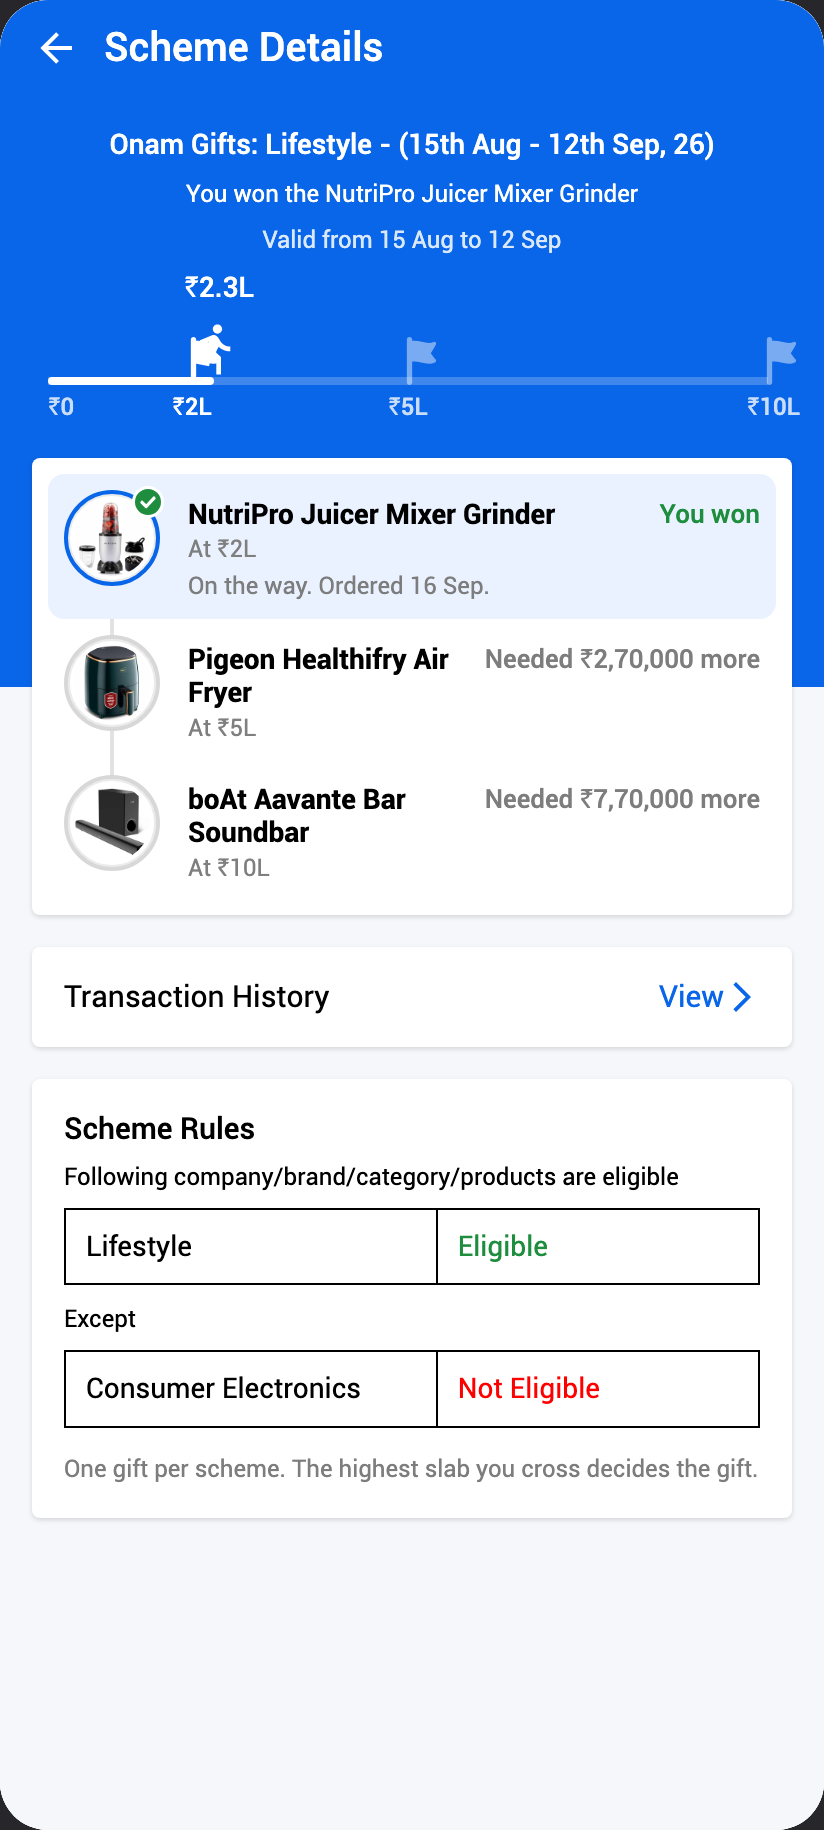
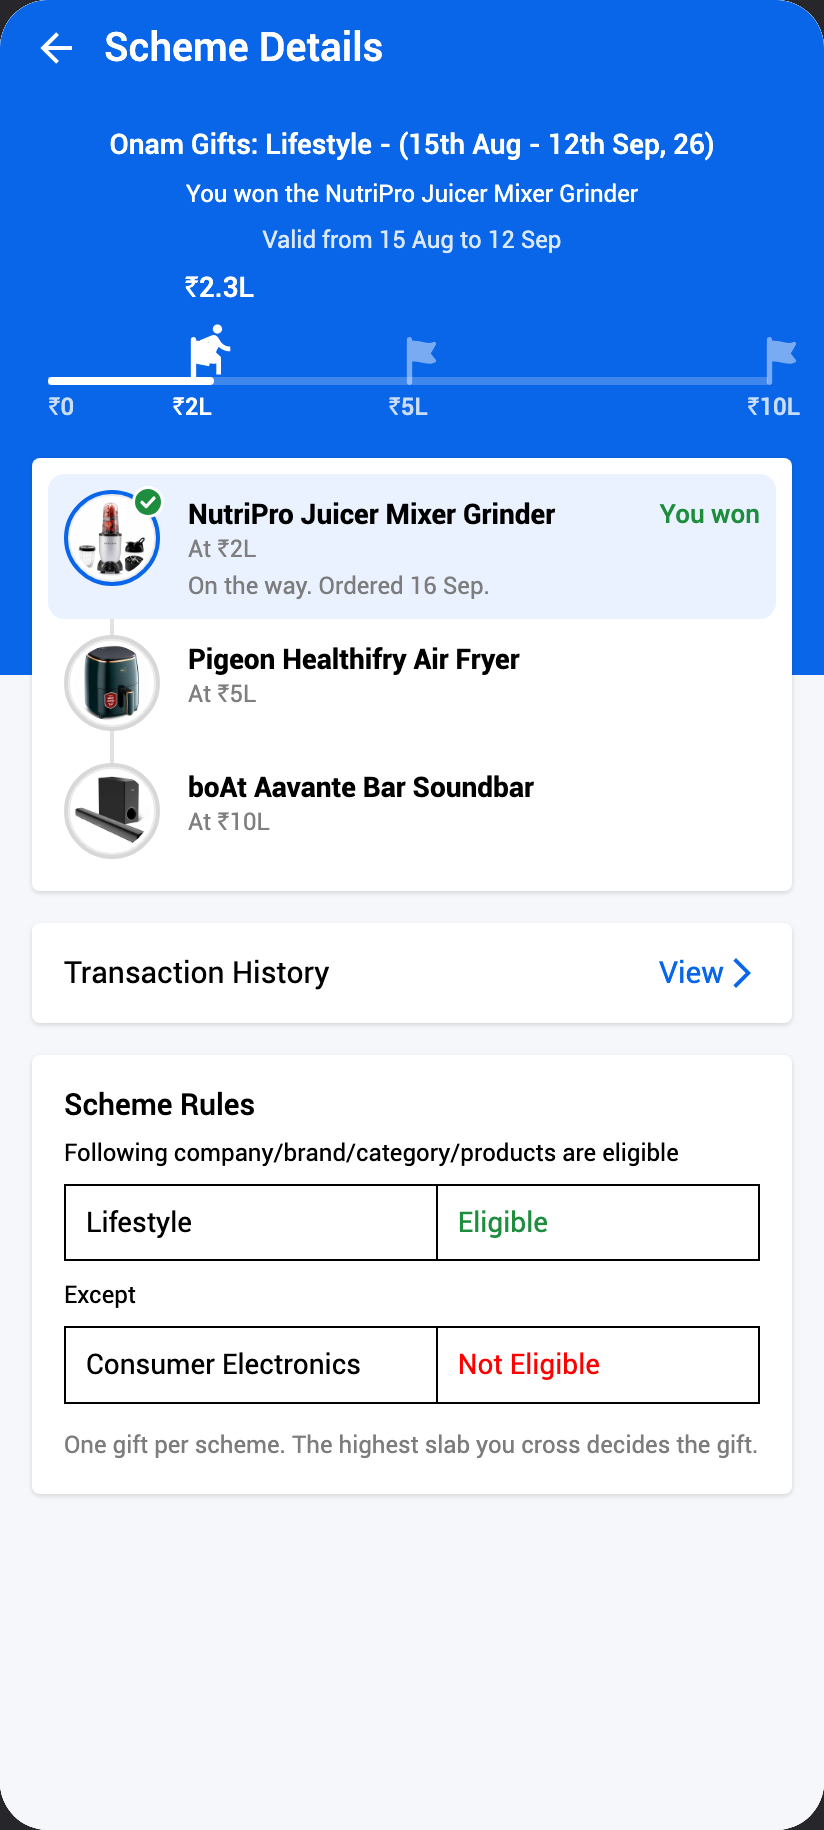
Hide per-gift distance tags on the detail ladder
The hero sentence already carries the next gift's distance and every row
keeps its "At ₹X" slab value, so the right-column tags are off for now
(SHOW_DISTANCE_TAGS flag to bring them back).

diff --git a/app/ship/[id].js b/app/ship/[id].js
@@ -38,6 +38,11 @@ import { SHIP_BY_ID } from '../../src/ship/data';
 
 const ROW_PAD_V = 8;
 
+// Per-gift distance tags ("₹3,60,000 more" / "Needed ₹80,000 more") are hidden for
+// now: the hero sentence already carries the next gift's distance, and the rows keep
+// their "At ₹X" slab values. Flip to true to bring the tags back.
+const SHOW_DISTANCE_TAGS = false;
+
 const MONTHS = ['Jan', 'Feb', 'Mar', 'Apr', 'May', 'Jun', 'Jul', 'Aug', 'Sep', 'Oct', 'Nov', 'Dec'];
 const ddMMM = (ms) => {
   const d = new Date(ms);
@@ -88,9 +93,9 @@ function LadderRow({ s, tier, fulfilment, onCenter }) {
       : { text: 'Your gift order will be placed soon', color: C.mediumGrey };
   } else if (!s.started) {
     right = null;
-  } else if (!crossed && !s.ended) {
+  } else if (SHOW_DISTANCE_TAGS && !crossed && !s.ended) {
     right = { text: `${indianPrice(tier.at - s.currentValue)} more`, color: SOLV.blue };
-  } else if (!crossed && s.ended) {
+  } else if (SHOW_DISTANCE_TAGS && !crossed && s.ended) {
     right = { text: `Needed ${indianPrice(tier.at - s.currentValue)} more`, color: C.mediumGrey };
   }
 
